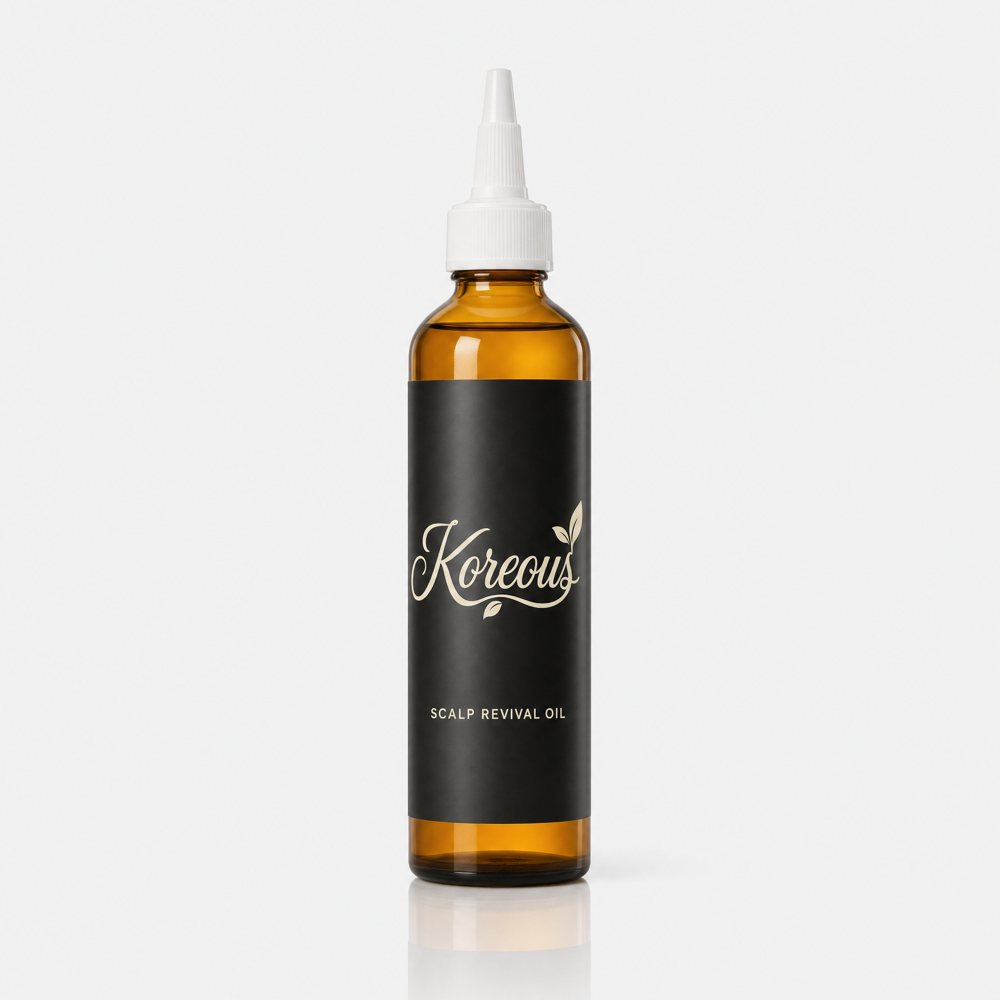
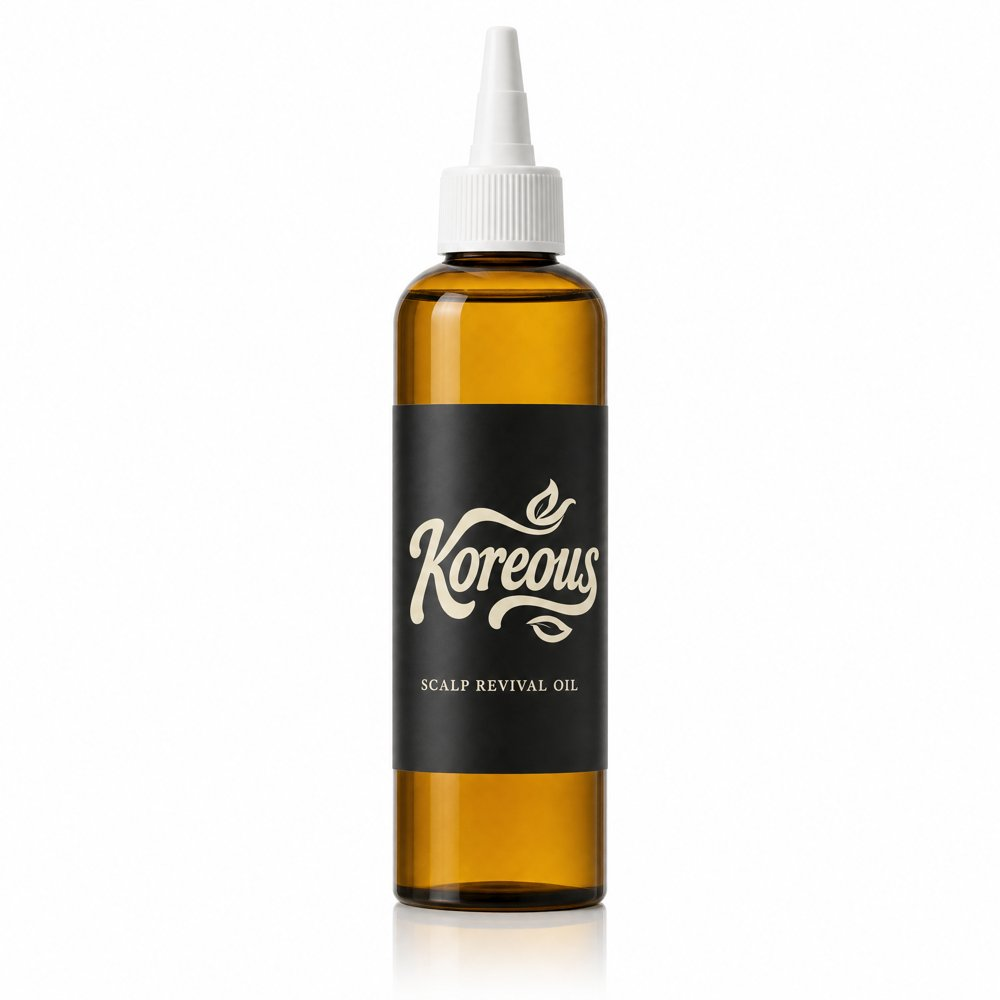
Use the real Koreous bar photo; matching hero, conditioner and oil imagery
Claude-Session: https://claude.ai/code/session_017JBgYY6XL5kMXpPpucXs7A

Changed region(s): [[0.372, 0.031, 0.62, 1.0]]

diff --git a/assets/koreous.css b/assets/koreous.css
@@ -4,7 +4,7 @@
   --k-green-2:#2E5E3E;
   --k-ink:#1E1E1E;
   --k-bg:#FDFDFD;
-  --k-card:#F4F4F4;
+  --k-card:#FDFDFD;
   --k-cream:#F5EDE0;
   --k-muted:#6b6b6b;
   --k-serif:'Cormorant',Georgia,serif;
